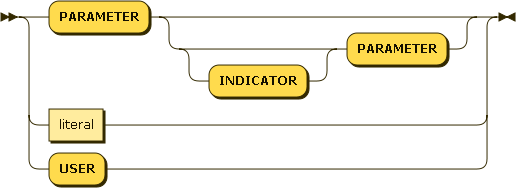
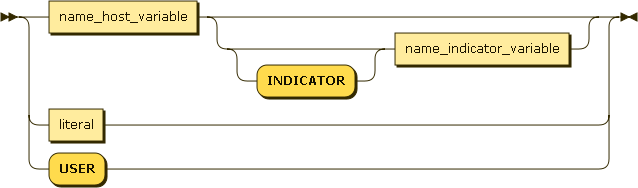
Clarifying atom & target_commalist.

Changed region(s): [[0.0, 0.0, 1.0, 1.0]]

diff --git a/doc/Railroad Diagram.html b/doc/Railroad Diagram.html
@@ -179,15 +179,14 @@
       </p>
       
       <p>no references</p><br><p style="font-size: 14px; font-weight:bold"><a name="cursor_def">cursor_def:</a></p>
-      <img border="0" src="diagram/cursor_def.png" height="68" width="714" usemap="#cursor_def.map"><map name="cursor_def.map">
-         <area shape="rect" coords="129,1,231,33" href="#name_cursor" title="name_cursor">
-         <area shape="rect" coords="415,1,501,33" href="#query_exp" title="query_exp">
-         <area shape="rect" coords="541,33,665,65" href="#order_by_clause" title="order_by_clause"></map>
+      <img border="0" src="diagram/cursor_def.png" height="68" width="764" usemap="#cursor_def.map"><map name="cursor_def.map">
+         <area shape="rect" coords="465,1,551,33" href="#query_exp" title="query_exp">
+         <area shape="rect" coords="591,33,715,65" href="#order_by_clause" title="order_by_clause"></map>
       
       <p>
          
          <div class="ebnf"><pre><a href="#cursor_def" title="cursor_def" shape="rect">cursor_def</a>
-         ::= 'DECLARE' <a href="#name_cursor" title="name_cursor" shape="rect">name_cursor</a> 'CURSOR' 'FOR' <a href="#query_exp" title="query_exp" shape="rect">query_exp</a> <a href="#order_by_clause" title="order_by_clause" shape="rect">order_by_clause</a>?</pre></div>
+         ::= 'DECLARE' 'NAME_OF_CURSOR' 'CURSOR' 'FOR' <a href="#query_exp" title="query_exp" shape="rect">query_exp</a> <a href="#order_by_clause" title="order_by_clause" shape="rect">order_by_clause</a>?</pre></div>
          
       </p>
       
@@ -367,12 +366,14 @@
          </ul>
          
       </p><br><p style="font-size: 14px; font-weight:bold"><a name="target_commalist">target_commalist:</a></p>
-      <img border="0" src="diagram/target_commalist.png" height="188" width="556">
+      <img border="0" src="diagram/target_commalist.png" height="188" width="678" usemap="#target_commalist.map"><map name="target_commalist.map">
+         <area shape="rect" coords="69,89,217,121" href="#name_host_variable" title="name_host_variable">
+         <area shape="rect" coords="415,121,589,153" href="#name_indicator_variable" title="name_indicator_variable"></map>
       
       <p>
          
          <div class="ebnf"><pre><a href="#target_commalist" title="target_commalist" shape="rect">target_commalist</a>
-         ::= ( 'NAME' | 'PARAMETER' ( 'INDICATOR'? 'PARAMETER' )? ) ( ',' ( 'NAME' | 'PARAMETER' ( 'INDICATOR'? 'PARAMETER' )? ) )*</pre></div>
+         ::= ( 'NAME' | <a href="#name_host_variable" title="name_host_variable" shape="rect">name_host_variable</a> ( 'INDICATOR'? <a href="#name_indicator_variable" title="name_indicator_variable" shape="rect">name_indicator_variable</a> )? ) ( ',' ( 'NAME' | <a href="#name_host_variable" title="name_host_variable" shape="rect">name_host_variable</a> ( 'INDICATOR'? <a href="#name_indicator_variable" title="name_indicator_variable" shape="rect">name_indicator_variable</a> )? ) )*</pre></div>
          
       </p>
       
@@ -450,12 +451,14 @@
          </ul>
          
       </p><br><p style="font-size: 14px; font-weight:bold"><a name="atom">atom:</a></p>
-      <img border="0" src="diagram/atom.png" height="188" width="516" usemap="#atom.map"><map name="atom.map">
+      <img border="0" src="diagram/atom.png" height="188" width="638" usemap="#atom.map"><map name="atom.map">
+         <area shape="rect" coords="49,1,197,33" href="#name_host_variable" title="name_host_variable">
+         <area shape="rect" coords="395,33,569,65" href="#name_indicator_variable" title="name_indicator_variable">
          <area shape="rect" coords="49,109,103,141" href="#literal" title="literal"></map>
       
       <p>
          
-         <div class="ebnf"><pre><a href="#atom" title="atom" shape="rect">atom</a>     ::= 'PARAMETER' ( 'INDICATOR'? 'PARAMETER' )?
+         <div class="ebnf"><pre><a href="#atom" title="atom" shape="rect">atom</a>     ::= <a href="#name_host_variable" title="name_host_variable" shape="rect">name_host_variable</a> ( 'INDICATOR'? <a href="#name_indicator_variable" title="name_indicator_variable" shape="rect">name_indicator_variable</a> )?
            | <a href="#literal" title="literal" shape="rect">literal</a>
            | 'USER'</pre></div>
          
@@ -1233,13 +1236,14 @@
          </ul>
          
       </p><br><p style="font-size: 14px; font-weight:bold"><a name="close_statement">close_statement:</a></p>
-      <img border="0" src="diagram/close_statement.png" height="36" width="244" usemap="#close_statement.map"><map name="close_statement.map">
-         <area shape="rect" coords="113,1,215,33" href="#name_cursor" title="name_cursor"></map>
+      <img border="0" src="diagram/close_statement.png" height="36" width="242" usemap="#close_statement.map"><map name="close_statement.map">
+         <area shape="rect" coords="29,1,91,33" href="#CLOSE" title="CLOSE">
+         <area shape="rect" coords="111,1,213,33" href="#name_cursor" title="name_cursor"></map>
       
       <p>
          
          <div class="ebnf"><pre><a href="#close_statement" title="close_statement" shape="rect">close_statement</a>
-         ::= 'CLOSE' <a href="#name_cursor" title="name_cursor" shape="rect">name_cursor</a></pre></div>
+         ::= <a href="#CLOSE" title="CLOSE" shape="rect">CLOSE</a> <a href="#name_cursor" title="name_cursor" shape="rect">name_cursor</a></pre></div>
          
       </p>
       
@@ -1337,13 +1341,14 @@
          </ul>
          
       </p><br><p style="font-size: 14px; font-weight:bold"><a name="open_statement">open_statement:</a></p>
-      <img border="0" src="diagram/open_statement.png" height="36" width="238" usemap="#open_statement.map"><map name="open_statement.map">
-         <area shape="rect" coords="107,1,209,33" href="#name_cursor" title="name_cursor"></map>
+      <img border="0" src="diagram/open_statement.png" height="36" width="234" usemap="#open_statement.map"><map name="open_statement.map">
+         <area shape="rect" coords="29,1,83,33" href="#OPEN" title="OPEN">
+         <area shape="rect" coords="103,1,205,33" href="#name_cursor" title="name_cursor"></map>
       
       <p>
          
          <div class="ebnf"><pre><a href="#open_statement" title="open_statement" shape="rect">open_statement</a>
-         ::= 'OPEN' <a href="#name_cursor" title="name_cursor" shape="rect">name_cursor</a></pre></div>
+         ::= <a href="#OPEN" title="OPEN" shape="rect">OPEN</a> <a href="#name_cursor" title="name_cursor" shape="rect">name_cursor</a></pre></div>
          
       </p>
       
@@ -1502,7 +1507,7 @@
       </p><br><p style="font-size: 14px; font-weight:bold"><a name="alter_user_def">alter_user_def:</a></p>
       <img border="0" src="diagram/alter_user_def.png" height="942" width="842" usemap="#alter_user_def.map"><map name="alter_user_def.map">
          <area shape="rect" coords="63,83,153,115" href="#name_user" title="name_user">
-         <area shape="rect" coords="501,171,591,203" href="#name_user" title="name_user">
+         <area shape="rect" coords="415,171,505,203" href="#name_user" title="name_user">
          <area shape="rect" coords="43,237,133,269" href="#name_user" title="name_user">
          <area shape="rect" coords="391,237,473,269" href="#password" title="password">
          <area shape="rect" coords="577,313,691,345" href="#name_external" title="name_external">
@@ -1517,7 +1522,7 @@
       <p>
          
          <div class="ebnf"><pre><a href="#alter_user_def" title="alter_user_def" shape="rect">alter_user_def</a>
-         ::= 'ALTER' 'USER' ( <a href="#name_user" title="name_user" shape="rect">name_user</a>+ ( 'GRANT' ( 'CONNECT' | 'REVOKE' ) 'THROUGH' 'ENTERPRISE' 'USERS' | 'GRANT' 'REVOKE' 'THROUGH' <a href="#name_user" title="name_user" shape="rect">name_user</a> ) | <a href="#name_user" title="name_user" shape="rect">name_user</a> ( 'IDENTIFIED' ( 'BY' <a href="#password" title="password" shape="rect">password</a> | ( 'EXTERNALLY' | 'GLOBALLY' ) ( 'AS' <a href="#name_external" title="name_external" shape="rect">name_external</a> )? ) | ( 'DEFAULT' | 'TEMPORARY' ) 'TABLESPACE' <a href="#name_tablespace" title="name_tablespace" shape="rect">name_tablespace</a> | 'QUOTA' ( 'UNLIMITED' | 'INTNUM' <a href="#name_unit" title="name_unit" shape="rect">name_unit</a>? ) 'ON' <a href="#name_tablespace" title="name_tablespace" shape="rect">name_tablespace</a> | 'PROFILE' <a href="#name_profile" title="name_profile" shape="rect">name_profile</a> | 'DEFAULT' 'ROLE' ( 'ALL' ( 'EXCEPT' <a href="#name_role" title="name_role" shape="rect">name_role</a>+ )? | 'NONE' | <a href="#name_role" title="name_role" shape="rect">name_role</a>+ ) )+ | <a href="#name_user" title="name_user" shape="rect">name_user</a> ( 'ACCOUNT' ( 'LOCK' | 'UNLOCK' ) | 'PASSWORD' 'EXPIRE' ) )</pre></div>
+         ::= 'ALTER' 'USER' ( <a href="#name_user" title="name_user" shape="rect">name_user</a>+ ( 'GRANT' ( 'CONNECT' | 'REVOKE' ) 'THROUGH' 'ENTERPRISE' 'USERS' | 'REVOKE' 'THROUGH' <a href="#name_user" title="name_user" shape="rect">name_user</a> ) | <a href="#name_user" title="name_user" shape="rect">name_user</a> ( 'IDENTIFIED' ( 'BY' <a href="#password" title="password" shape="rect">password</a> | ( 'EXTERNALLY' | 'GLOBALLY' ) ( 'AS' <a href="#name_external" title="name_external" shape="rect">name_external</a> )? ) | ( 'DEFAULT' | 'TEMPORARY' ) 'TABLESPACE' <a href="#name_tablespace" title="name_tablespace" shape="rect">name_tablespace</a> | 'QUOTA' ( 'UNLIMITED' | 'INTNUM' <a href="#name_unit" title="name_unit" shape="rect">name_unit</a>? ) 'ON' <a href="#name_tablespace" title="name_tablespace" shape="rect">name_tablespace</a> | 'PROFILE' <a href="#name_profile" title="name_profile" shape="rect">name_profile</a> | 'DEFAULT' 'ROLE' ( 'ALL' ( 'EXCEPT' <a href="#name_role" title="name_role" shape="rect">name_role</a>+ )? | 'NONE' | <a href="#name_role" title="name_role" shape="rect">name_role</a>+ ) )+ | <a href="#name_user" title="name_user" shape="rect">name_user</a> ( 'ACCOUNT' ( 'LOCK' | 'UNLOCK' ) | 'PASSWORD' 'EXPIRE' ) )</pre></div>
          
       </p>
       
@@ -1636,15 +1641,15 @@
          </ul>
          
       </p><br><p style="font-size: 14px; font-weight:bold"><a name="grantee_commalist">grantee_commalist:</a></p>
-      <img border="0" src="diagram/grantee_commalist.png" height="140" width="588" usemap="#grantee_commalist.map"><map name="grantee_commalist.map">
+      <img border="0" src="diagram/grantee_commalist.png" height="140" width="630" usemap="#grantee_commalist.map"><map name="grantee_commalist.map">
          <area shape="rect" coords="89,61,179,93" href="#name_user" title="name_user">
          <area shape="rect" coords="89,105,175,137" href="#name_role" title="name_role">
-         <area shape="rect" coords="417,93,499,125" href="#password" title="password"></map>
+         <area shape="rect" coords="417,93,541,125" href="#name_password" title="name_password"></map>
       
       <p>
          
          <div class="ebnf"><pre><a href="#grantee_commalist" title="grantee_commalist" shape="rect">grantee_commalist</a>
-         ::= ( 'PUBLIC' | ( <a href="#name_user" title="name_user" shape="rect">name_user</a> | <a href="#name_role" title="name_role" shape="rect">name_role</a> ) ( 'IDENTIFIED' 'BY' <a href="#password" title="password" shape="rect">password</a> )? )+</pre></div>
+         ::= ( 'PUBLIC' | ( <a href="#name_user" title="name_user" shape="rect">name_user</a> | <a href="#name_role" title="name_role" shape="rect">name_role</a> ) ( 'IDENTIFIED' 'BY' <a href="#name_password" title="name_password" shape="rect">name_password</a> )? )+</pre></div>
          
       </p>
       
@@ -1705,17 +1710,17 @@
          </ul>
          
       </p><br><p style="font-size: 14px; font-weight:bold"><a name="schema">schema:</a></p>
-      <img border="0" src="diagram/schema.png" height="244" width="900" usemap="#schema.map"><map name="schema.map">
-         <area shape="rect" coords="369,17,479,49" href="#name_schema" title="name_schema">
-         <area shape="rect" coords="725,17,811,49" href="#name_role" title="name_role">
-         <area shape="rect" coords="559,61,687,93" href="#create_table_def" title="create_table_def">
-         <area shape="rect" coords="559,105,689,137" href="#create_index_def" title="create_index_def">
-         <area shape="rect" coords="559,149,683,181" href="#create_user_def" title="create_user_def">
-         <area shape="rect" coords="559,193,635,225" href="#view_def" title="view_def"></map>
+      <img border="0" src="diagram/schema.png" height="244" width="880" usemap="#schema.map"><map name="schema.map">
+         <area shape="rect" coords="369,17,459,49" href="#name_user" title="name_user">
+         <area shape="rect" coords="705,17,791,49" href="#name_role" title="name_role">
+         <area shape="rect" coords="539,61,667,93" href="#create_table_def" title="create_table_def">
+         <area shape="rect" coords="539,105,669,137" href="#create_index_def" title="create_index_def">
+         <area shape="rect" coords="539,149,663,181" href="#create_user_def" title="create_user_def">
+         <area shape="rect" coords="539,193,615,225" href="#view_def" title="view_def"></map>
       
       <p>
          
-         <div class="ebnf"><pre><a href="#schema" title="schema" shape="rect">schema</a>   ::= 'CREATE' 'SCHEMA' 'AUTHORIZATION' <a href="#name_schema" title="name_schema" shape="rect">name_schema</a> ( 'CREATE' 'ROLE' <a href="#name_role" title="name_role" shape="rect">name_role</a> | <a href="#create_table_def" title="create_table_def" shape="rect">create_table_def</a> | <a href="#create_index_def" title="create_index_def" shape="rect">create_index_def</a> | <a href="#create_user_def" title="create_user_def" shape="rect">create_user_def</a> | <a href="#view_def" title="view_def" shape="rect">view_def</a> )+?</pre></div>
+         <div class="ebnf"><pre><a href="#schema" title="schema" shape="rect">schema</a>   ::= 'CREATE' 'SCHEMA' 'AUTHORIZATION' <a href="#name_user" title="name_user" shape="rect">name_user</a> ( 'CREATE' 'ROLE' <a href="#name_role" title="name_role" shape="rect">name_role</a> | <a href="#create_table_def" title="create_table_def" shape="rect">create_table_def</a> | <a href="#create_index_def" title="create_index_def" shape="rect">create_index_def</a> | <a href="#create_user_def" title="create_user_def" shape="rect">create_user_def</a> | <a href="#view_def" title="view_def" shape="rect">view_def</a> )+?</pre></div>
          
       </p>
       
@@ -1800,13 +1805,13 @@
          </ul>
          
       </p><br><p style="font-size: 14px; font-weight:bold"><a name="view_def">view_def:</a></p>
-      <img border="0" src="diagram/view_def.png" height="222" width="620" usemap="#view_def.map"><map name="view_def.map">
-         <area shape="rect" coords="235,45,287,77" href="#table" title="table">
+      <img border="0" src="diagram/view_def.png" height="222" width="544" usemap="#view_def.map"><map name="view_def.map">
+         <area shape="rect" coords="215,45,267,77" href="#table" title="table">
          <area shape="rect" coords="107,155,199,187" href="#query_spec" title="query_spec"></map>
       
       <p>
          
-         <div class="ebnf"><pre><a href="#view_def" title="view_def" shape="rect">view_def</a> ::= ( 'CREATE' 'VIEW' <a href="#table" title="table" shape="rect">table</a> '(' ( 'NAME' | 'STRING' ) ( ',' ( 'NAME' | 'STRING' ) )* )? ')'
+         <div class="ebnf"><pre><a href="#view_def" title="view_def" shape="rect">view_def</a> ::= 'CREATE' 'VIEW' <a href="#table" title="table" shape="rect">table</a> ( ( 'NAME' | 'STRING' ) ( ',' ( 'NAME' | 'STRING' ) )* )?
            | 'AS' <a href="#query_spec" title="query_spec" shape="rect">query_spec</a> ( 'WITH' 'CHECK' 'OPTION' )?</pre></div>
          
       </p>
